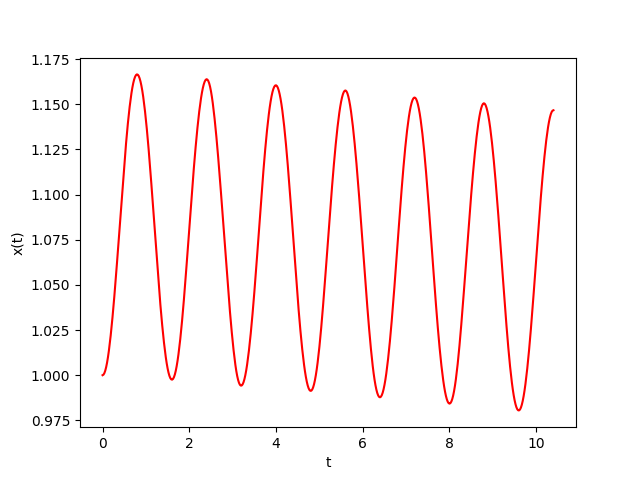
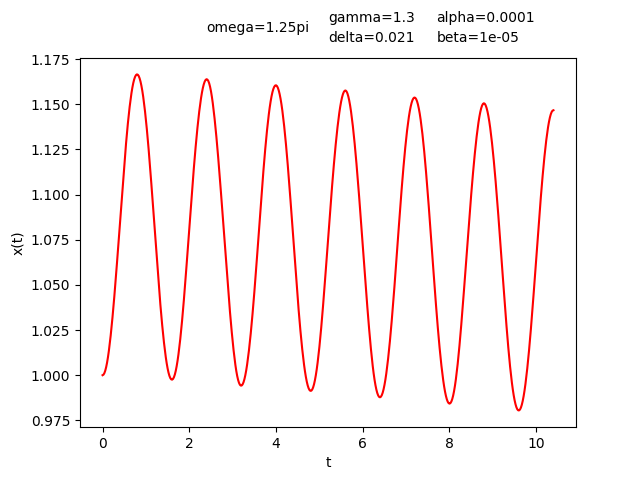
new_params

Changed region(s): [[0.3125, 0.0312, 0.6562, 0.0938], [0.6875, 0.0, 0.8438, 0.0938]]

diff --git a/src/numerical_methods/Runge_kut_scipy.py b/src/numerical_methods/Runge_kut_scipy.py
@@ -51,8 +51,8 @@ if __name__ == "__main__": # pragma: no cover
     plt.plot(t, sol.y[0, :], 'r')
     plt.xlabel('t')
     plt.ylabel('x(t)')
-    dl = (max(sol.y[0]) - min(sol.y[1]))*0.132 # <- change the last parameter to align the labels
-    plt.text(t[-1]/2-2.5, max(sol.y[0, :])+1.3*dl, f"omega={'' if l==1 else l}pi")
+    dl = (max(sol.y[0]) - min(sol.y[1]))*0.012 # <- change the last parameter to align the labels
+    plt.text(t[-1]/2-2.8, max(sol.y[0, :])+1.3*dl, f"omega={'' if l==1 else l}pi")
     plt.text(t[-1]/2, max(sol.y[0])+1.6*dl, f"gamma={gamma}")
     plt.text(t[-1]/2, max(sol.y[0])+dl, f"delta={delta}")
     plt.text(t[-1]/2+2.5, max(sol.y[0])+1.6*dl, f"alpha={alpha}")
